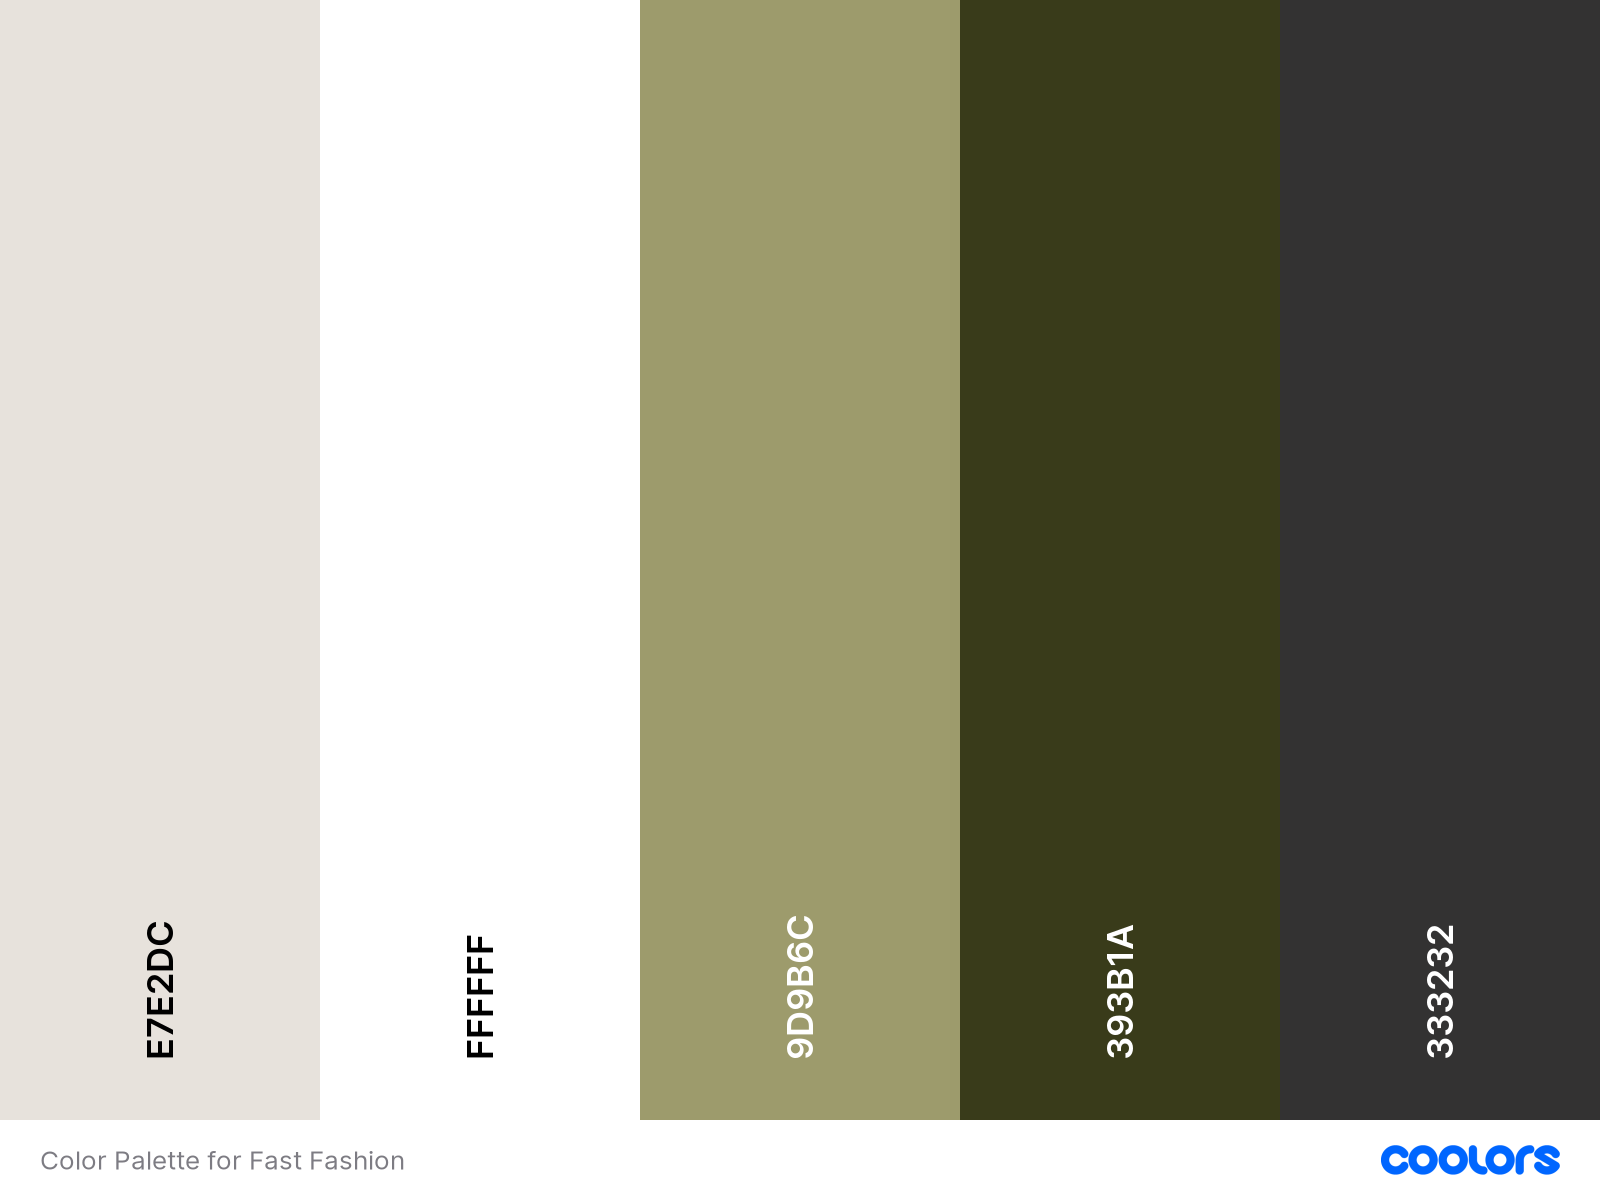
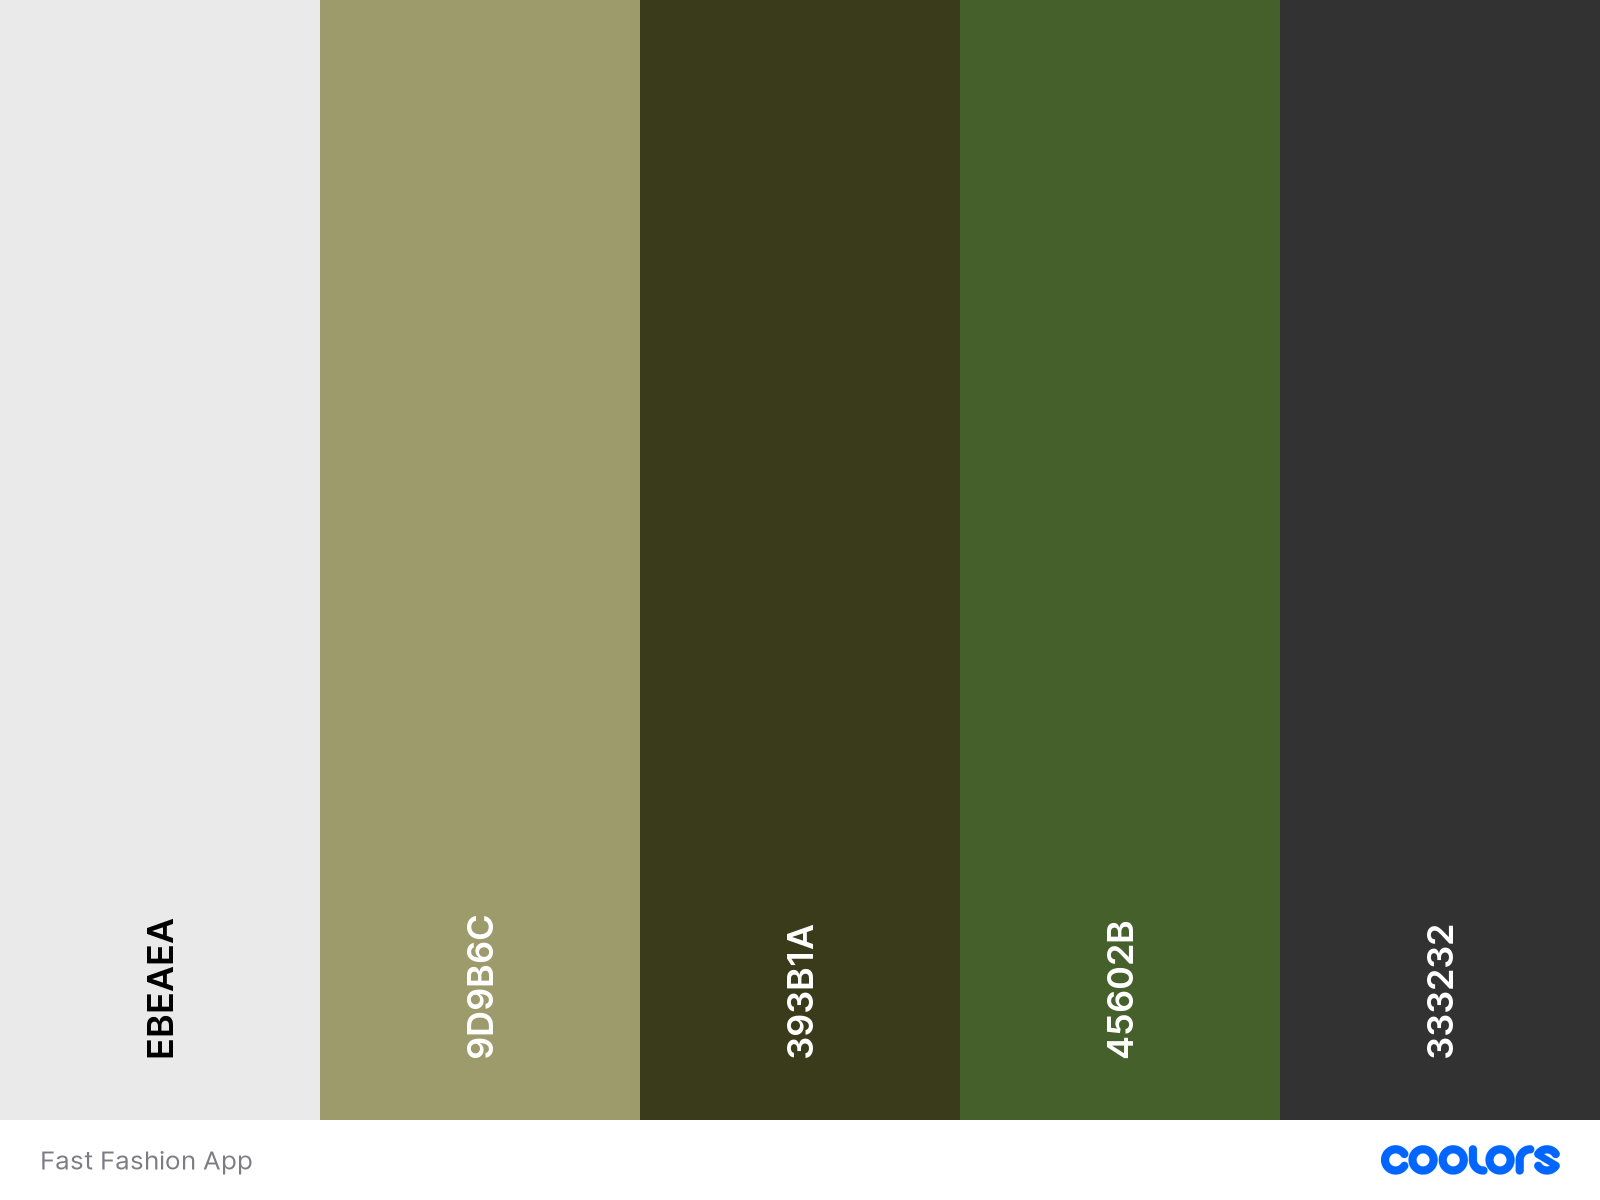
adding updates

diff --git a/palette.html b/palette.html
@@ -24,17 +24,17 @@
 
     <h1>Color Meanings:</h1>
         <dl>
-        <li><span>White / Beige</span> - provoke minimalism and neutrality. It also depicts a feeling of goodness and purity.</li>
+        <li><span>Grey / Beige</span> - provoke minimalism and neutrality. It also depicts a feeling of goodness and purity.</li>
         <li><span>Green</span> - gives an impression of nature and sustainability which correlates to our app’s mission in informing our users to make more sustainable choices when it comes to fast fashion.</li>
         <li><span>Black</span> - associated with the feeling of power, elegance, and formality. This color sets the shape of our app because it highlights our texts and gives more readability.</li>
         </dl>
 
     <h1>Color Assignments:</h1>
         <dl>
-        <li><span>White ( #FFFFFF )</span> - For our page background and menu icons.</li>
-        <li><span>Platinum ( #E7E2DC )</span>- For our buttons.</li>
+        <li><span>Grey ( #EBEAEA )</span> - For our page background and menu icons.</li>
         <li><span>Artichoke ( #9D9B6C )</span> - For our menu icons (when hovered or selected) and other page icons such as the heart.</li>
         <li><span>Olive Drab 7 ( #393B1A )</span> - For our page headings and button labels.</li>
+        <li><span>Green ( #456026 )</span>- For our buttons.</li>
         <li><span>Jet ( #333232 )</span>- For our page descriptions and subheadings.</li>
         </dl>
 </div>

diff --git a/style.css b/style.css
@@ -37,11 +37,13 @@ ul {
 /* PAGE 1: Home Logos */
 h1 {
     font-family: "Helvetica Neue", Helvetica, "pragmatica-web", Arial, sans-serif;
-    font-size: 30px;
+    font-size: 36px;
     line-height: 82px;
     font-weight: 600;
     letter-spacing: -0.04em;
     margin-top: 50px;
+    font-weight: bold;
+    color: #393B1A;
         /* font-family: "Telefon Black", Sans-Serif;
     line-height: 1.5;
     font-size: 25px;
